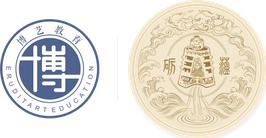
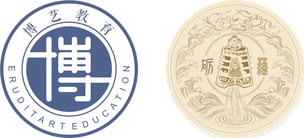
看板品牌标：两枚改成一样大（v44）
用户：「这两个 logo 要一样大，不能你大我小，它俩是一样的，
那就把博艺这个 logo 也放大，放成一样大。」

真凶不是尺寸参数，是**量错了边**：make_brand_plate.py 原先拿
「融合标左半画布的 bbox」当基准 —— 左半在博艺圆章右侧还留着一撮
alpha 60~120 的淡色残影（x 543..639，97px 宽），最长边被虚撑到
623px，而圆章实体只有 526px，于是圆章被缩成 76%、屏上 299px；
砺蕴那枚（米黄圆底）是 414px —— 差 38%。

改法：
- 新增 emblem()：用 alpha > 200 卡出圆章**实体**（526×526 正圆，
  带断言，素材一变形当场炸），再缩到与圆底同一直径。两枚都以
  h=414(@3x) 为直径 → 结构上等大，不靠调参凑。
- 拼装改为「两块都取裁紧后的实体」再拼，中间净空隙 = 设计值
  （S×0.20 = 83px@3x ≈ 28px@1x，与改版前观感一致）。
- .bd-lock 高度不动（本来就是两枚共同的直径），只宽了约 14%。

测试：
- board_check 新增守卫「两枚一样大」（按列切块比外接框，容差 3%），
  实测左 139×138 · 右 139×138；50 项全绿。
- 顺手换掉一条已经失效的旧判据：「左半透明占比 ≥35%」在圆章放大到
  铺满左半后会误报（圆的透明率本就是 21.5%），改成看**左半的两个角
  有没有东西**（裸摆必然四角全空），并保留 ≥15% 的弱门槛。
- side_brand 14 项通过。

diff --git a/sw.js b/sw.js
@@ -23,7 +23,7 @@
 
 /* v40：**电脑端侧栏门头（左上那枚白牌）从「整块左对齐」改成「居中版」** —— 用户看截图时指出：融合标只有 118px 靠在约 190px 宽的牌面里，右边空出一大片，视觉重心整个偏到左上角；牌下那行问候语又贴着左边，三块各说各话。现在牌内**融合标 / 系统名 / 端口名一律居中、收在一条中轴**上，牌下的问候语也走同一条轴；牌面加一道 **1px 暖金描边**（中式册页的做法，比投影轻），标与字之间压一条「**短金线嵌金点**」的分隔（登录门那根长金线的缩小版）—— 上半是「标」、下半是「字」，一块小匾就立住了。⚠ 别再改回 `.b-sys/.b-port{text-align:left}`，那是给「左对齐成一块」用的。② 顺手修掉一处**哑火**：`@media (min-width:1100px){.side .brand .brand-lock{max-width:148px}}` 原先写在 `.side .brand .brand-lock{max-width:118px}` **之前**，两个选择器特异性完全相同 → 148 从来没生效过，宽屏牌面上的融合标一直只有 118（这就是牌面看着空的另一半原因）。已把它挪到基础规则之后：宽屏 148 / 其余 118。③ 新增 test/side_brand_check.mjs（**14 项**）：量的是**文字**的水平中心而不是元素盒（`.b-sys` 上有 `::before` 伪元素那条金线，元素盒比文字宽，拿 getBoundingClientRect 会误判），五端 × 200/236 两档侧栏宽 × 深浅两套主题全部要求偏 ≤1.5px，实测 **0.00px**。 */
 /* v39：看板端从 v38 的「深墨底 · 双通道」重做成**宣纸米白 · 三栏**，打卡码改成「二维码里只编那串数字」，学生走砺蕴自带的「扫一扫」—— 用户看过多版设计后定的稿：取 D 的气质、B 的编辑式排版（不用卡片），二维码放大摆中间、左栏课表、二维码下面直接「应到 / 实到」、量化榜最多 5 格、底要米白不要正白。① 版面：**宣纸米白底**（#FAF7F0，不是正白 —— 这块屏 24 小时亮着，正白刺眼；**不跟系统深浅色**），顶带（品牌 / 日期 / 大时钟 / 数据新鲜度）+ 三栏**左课表 / 中打卡码 / 右量化与未到**，栏与栏之间只走一条 1px 细线、**不用卡片**（一圈圆角白卡会把整块屏切碎，中式布告的做法是留白 + 栏线）；中间那栏给得最宽，二维码 min(44vh,30vw,540px) 且**摆正中**，下面「应到 / 实到」两个大数、迟到·请假·未到 收成一行小字；顶栏品牌换成 assets/brand-lock-alpha.png（原来的 brand-lock.png 砺蕴章带米黄底 #FFFDE4，贴在米白纸上会露一块淡黄方块），两份都进 SHELL；量化榜只留分最高的 5 个班、红涨绿跌；窄到 900px 以下三栏叠成一栏能滚着看。② **二维码里只编那串数字本身，不编网址**（v38 编的是 ?code= 链接）—— 编网址是绕远路：手机相机 / 微信扫出来是一段链接，还得从微信导进浏览器，多好几步，也丢了「把码摆在门上一扫就走」的意义；学生用的是砺蕴自带的「扫一扫」，所以码就是数字。配套删掉 Board.base/scanLink、App.scanCatch/scanCode/handOffScan（grep 确认零残留）与 Board.fillH（横向跑马灯不再需要）。③ 新写一份**零外部依赖的二维码解码器 QRDec**（内联在 QR-DECODER-START/END 标记区，与 v38 的编码器共用同一份「哪些格是功能格 / 掩码怎么算 / 版本表长什么样」）—— iPhone 的 Safari 根本没有 BarcodeDetector，指不上，自己带一份两台手机行为才一致：灰度 → Bradley 自适应二值化（积分图）→ 去孤立噪点 → 1:1:3:1:1 定位图案识别（横扫 + 纵核）→ 聚类 → 挑等腰直角三角形定向（叉积定左右手）→ 三点仿射变换逐格采样（一格 ≥5px 时取中心 3×3 投票）→ 读格式信息（BCH 反解 + 汉明距离兜底）→ 反走填数据路径去掩码 → 解交错 → RS 纠错。RS 四处坑记在这：Berlekamp-Massey 里两项相加必须**右对齐**（最高次在前、短的往左补零）、定位多项式的**前导零要清掉**（否则次数被高估）、Chien search 代入的是 **α^(−i)** 而不是 α^i（这才是当初「错一个码字都纠不回」的病根）、最后还要**再验一遍伴随式**，残余不为 0 就返回空 —— 宁可让学生重扫一次，也不报一个错的码。④ 学生端「扫一扫」：StuSign.scan() 开后置摄像头（每 1/4 秒抓一帧缩到 480 宽来解，不逐帧跑，免得把手机烤热也费电；扫码这件事四分之一秒一轮已经够跟手）、onScan() 只留数字、**定位已就绪就直接提交**（扫完还要再按一下圈，那这趟就白扫了）、扫来的码填进输入框但**不聚焦**（一聚焦就弹键盘，盖住上面那个大圈）、打完卡把 _scanned 清掉别留着下一轮又替他填上；取景窗在扫完 / 重绘（renderStep 会把取景框整个冲掉）/ 切页（App.go 里 id !== stuSign 就叫一声）三处都收干净 —— 摄像头指示灯不许一直亮。⑤ 两处写着容易踩的细节：右栏是「量化榜 + 未到名单」两块，名单**不能再居中**（v37 的 .fit 居中在只有名单时是对的，现在会把两块之间裂开一大段空 —— 纸色底上留白不难看、裂缝难看），改成靠上排、留白沉底；定位图案的分隔带**必须浅色**（按切比雪夫距离画，dist!==2&&dist!==4），以及 SVG 必须自带 4 格静默区。测试 board_check 31→40 项（新增「造 7 个班只显示 5 格」的量化榜上限、宣纸米白 / 品牌标真渲染、左栏课表、五屏宽三栏不叠、截屏 → OpenCV 真解码、内置扫一扫全链路 7 项），另新增 test/qr_dec_check.mjs（27 项：RS 纠错专项 + 自编自解 + 缩放 + 只占画面一角 + 光线画质 + 倾斜 + 读不出返空）。 */
-const VERSION = 'v43'; /* v43：看板品牌标从「整条套深墨底板」改成**只给砺蕴那半套暖米黄圆底**。v42 的深墨底板被用户否掉：「整体都是白色的，突然有一个黑色的很丑」「博艺的 logo 是白色跟蓝色的，你整体弄个黑色的很突兀」；同时明确「只给砺蕴的 logo 加个底色」（手机端、电脑端用的是米黄底版 brand-lock.png，用户说那两处很清晰、不动）。现在 test/make_brand_plate.py 的产出改成：左＝博艺圆章**原样裸摆、不加任何底色**（它本身就是蓝+白，浅纸上读得清）；右＝砺蕴印章换官方**暗金**版（logo_logo1_暗金.png，原来那版是「给深色底做的品牌金细线」，贴纸底整块化掉）并压在一块**暖米黄 #F3E7CD 圆底**上，底内一道品牌金细描边 + 极轻暖影。暗金 #9A7B45 压在米黄上对比度约 3.3:1，浅底上读得出；底色走暖米黄是跟看板宣纸 #FAF7F0 同族，不发暗、不抢眼。造型用**圆底**不用圆角方底 —— 砺蕴那枚本就是圆印，圆底跟左边博艺圆章并排成「一对印」，不是两块形状各异的贴纸。中间不再画分隔线（圆底自己把两块分开了）。文件名不变（assets/brand-plate.png/@2x/@3x），HTML 只改注释。board_check 的两条守卫跟着改：① 品牌标「左半没有板、右半有板」——拿**透明画布**读角像素 alpha（左上 <20、右上 >200），这条正是用户「只给砺蕴加底色」的要求；② 右半「板是暖米黄不是深墨」——不透明像素中位色 R>G>B 且较亮，同时章线明显暗于板底（亮暗跨距够）。桌面归档改存 砺蕴横版组合标_砺蕴章米黄圆底.png（深墨那版作废，不再使用）。 */  /* v41：打卡码收敛成**只有一种**（6 位、60 秒一换的动态码），并修掉四件用户点名的事。① 固定码整条路线拆除 —— 后端不再读 sign_rules.code（前端 Sign.rules() 里显式 delete out.code，老设备别把自设的 8866 一直认下去），Sign.saveCode/randCode/localCode 一并删掉。理由：固定码一节课不变，只要一个学生把码发到群里，别人在宿舍也能打。② 位数钉死 6 位（后端 CODE_LEN=6，前端 maxlength=6，二维码与数字同源同一枚），原先 4/6/8 位混用是「教务自设固定码」与「派生码」两条路并存留下的。③ 两处都加换码倒计时：看板 .bd-timer（进度条 + 大秒数，末 10 秒转朱砂 .soon）、打卡管理页 #signCodeQr/#signCodeBox/#signCodeBar/#signCodeLeft（Sign.tick 每秒走一格），秒数按服务端 left 算、客户端改表没用。④ 学生端「扫码」与「手输」改**二选一**（原来扫完还要再输一遍）：onScan 只写 _scanned 不落 DOM，而 confirm() 只读输入框 → 读到空 → 弹「输一下讲台上那个码」，怎么输都说不清。现在 confirm() 优先认 _scanned，路口一次只摆一条路（默认只有「扫面前的二维码」，点「手输动态码」才出输入框），码位数不对就直说「对错了码」、不猜不截断。⑤ 演示数据在**数据层**一次滤掉（isDemoEntity + demoFilter + Store.list 默认过滤 + listRaw 留给备份/彻底清理/建演示号）—— 演示班与它底下的演示学员不得进名册、人数、出勤、量化任何统计；Util.clsName/stuName 走 listRaw（按 id 查名字是具名取用，不是统计）。⑥ 看板「迟到/请假/未到」三格由 12~19px 放大到 38.4px（clamp 上限 50px）并各归其色（琥珀/蓝/朱砂）；整块版面同步精修：纸面色气 + 金线分栏 + 打卡码 475px + 进度条 + 榜首金底 + 课表「下一节」金边 + 量化榜加 01~05 名次。⑦ 文案「扫描黑板上的二维码或者讲台上二维码」→「对着面前屏幕上的二维码扫一下」（黑板/讲台是旧场景，看板才是现在的码位）。⑧ 踩坑第四次：系统通用类 .warn{background:#fff6e9;border:...;padding:10px;font-size:13px} 会吃掉看板的 .bd-m.warn（多出一圈淡黄底），改名 .bd-m.bd-warn，board_check 里加了守卫断言「.bd-m 一律无底色/无内边距/类名带 bd- 前缀」。回归 board_check 31→46、student_check 46→51，新增 test/sign_code_check.mjs（打卡管理页专项 9 项）。 */  /* v38：看板打卡码改成「上二维码 / 下数字」双通道 —— 学生想扫就扫、想输就输。① 自带一份 QR 编码器内联进 index.html（放在 /* QR-ENCODER-START *\/ 标记区里，便于测试直接抠上线代码来验），零外部依赖，字节模式 + 纠错等级 M + 版本 1~6，GF(256) 上跑 RS 纠错、标准分块交错、8 种掩码按四条罚则评分选优；② 二维码编的是本站 ?code=XXXXXX 链接，扫完直达打卡页且码已替他填好；③ 只在「码真的变了」时才重画（paintCode 每秒被 tick 叫一次，而重编码要跑 8 张掩码的评分，常开的屏不能每秒白烧 CPU）；④ 学生端：scanCatch() 在登录门还开着时就收下码（并 replaceState 抹掉地址栏里的码，不留在历史、不易被转发），登录后 handOffScan() 直接落到打卡页，输入框填好码且**不聚焦**（一聚焦就弹键盘盖住上面那个大圈）；⑤ 顺手修掉 v37 的一处哑火：右栏名单「装得下就居中」其实从没生效过（.bd-rows 压根没有高度，align-content:center 是空转），现改为把 .fit 挂到 .bd-miss 面板上整组居中。两处写错就扫不出的坑记在这：定位图案的分隔带**必须浅色**（按切比雪夫距离画，dist!==2&&dist!==4），以及 SVG 必须自带 4 格静默区。测试 board_check 21→31 项（二维码 6 项含「截屏→OpenCV 真解码」、学生扫码全链路 5 项），另新增 test/qr_check.py（逐格比对参考实现 + 真解码 + 缩放鲁棒）与 test/qr_decode.py。 */  /* v37：看板端版面重做 —— 从「上时钟下卡片」的仪表盘换成「航显分带」（像机场的航班显示屏）：顶带（品牌 / 大时钟 / 日期 /「已到 30 37」/ 数据新鲜度），中带（左＝今日打卡码，整屏最大的一块，学生站门口就该看清；右＝6 格数字矩阵 应到/已到/迟到/请假/未到/距上课 ＋ 未到名单），底带（今日课表横向跑马灯）。旧版最大的毛病是下半屏常年空着半块。配套三处：① 码字号按「码栏 ≈ 视口 58%」重推（13.5vw，上限 265px），clock 挪进顶带后重叠判据从「左不压右」改成「上不压下」；② 右栏名单装得下时挂 .fit 居中摆着、塞不下才复制一份上滚（居中与滚动不能同时上，会两头露不出来）；③ 新增「一键新建看板专用教务号」（Board.createAccount，只有首位教务看得见那个按钮）—— 每个账号只有 2 台设备额度，拿自己的号登看板电脑会把自己手机或常用的那台挤下线。test/board_check.mjs 的 21 项判据同步更新。 */  /* v36：新增「看板端」—— 办公室那台电脑挂着的只读副屏（当前时间 / 今日打卡码 / 来了多少人 / 谁还没到 / 今天上什么课）。有 route 但不进 NAV_ORDER，入口只有设置页那张卡，或网址带 ?board=1（Windows 桌面快捷方式写死这条，开机就落在看板上）；App.go 里 board 不写 _lastPage，不带参数重开仍回工作台。取数全走现成的 Store 与 Auth.call('code')，不新增接口、不新增文件（SHELL 不变）。落地上踩到两处：① 宽屏那条 .page.on{display:grid;grid-template-columns:repeat(2,1fr)} 会把看板切掉一半（1600 宽的窗里只剩 800），须在 board-mode 下掰回单列并放开 ≥1700px 的 max-width:1400px；② 系统里已有通用 .ok{background:#eafaf0}，「已到」那块被吃掉一片浅绿底，故统计色类名一律改 bd- 前缀。新增 test/board_check.mjs（真机 21 项）。 */  /* v35：修「一进站开场动画跳两三次」。根因是换版重载：新 SW activate+claim 会派发 controllerchange，页面收到就 location.reload()；而旧版的守门变量 window._swReloading 挺不过 reload，SW 又有 controllerchange 与 shell-updated 两条通知路径，部署窗口里缓存指纹还可能对不上 —— 实测首次访问 2 次文档加载，第二次落在 t+6.7s/t+18s，人已经在用了才重放，所以「像故障」。现在：① 只有开屏层还盖着时才借换版重载，且每个会话最多一次（sessionStorage），过了开屏期就不刷、留到下次打开自然生效（缓存已是新版，仍不用手刷）；② 重载那一趟写 liyun_quiet_reload 标记，新文档直接撤掉开屏层 —— 用户看到的永远是一整段连续动画；③ 开屏保底显示 700ms→1200ms、淡出 .4s→.55s、金环描绘 1.5s→1.1s（画得完），整体变成一次从容的入场而不是几次闪烁；④ 本文件 install 与 navStrategy 里 index.html 改为「取一次、正文与指纹同一份字节」——原先取两次，CDN 传播窗口里会正文/指纹不匹配，误判成「壳子更新了」再刷一次（开场动画跳第三次的来源）。新增实测脚本 test/splash_probe.mjs。 */  /* v34：量化细则从「设置」里拆成独立页 —— 那张表近 30 条、每条都是可编辑的「名目 + 分值」输入框，整块塞在设置里把设置页撑到 ~5300px（手机要滑好久），密集输入框还容易误触改错分值。现在：设置页只留一张「量化细则」入口卡（照「老师管理」那张卡的样子，卡上一句「共 N 条计分项」+「打开量化细则」按钮）；加减分 / 加新条目 / 传图识别全搬到新页 page-rules，底部有「返回设置」。新页有 route 但**不进 NAV_ORDER** —— 侧栏 / 底部标签栏 / 全部功能抽屉三处都不出现，只有教务端从设置页那张卡能进，老师与学生拿不到（App.can 与服务端角色都拦）。实测设置页 5300→3028px，细则卡由最大一块缩到 173px。回归新增 test/rules_page_check.mjs（真机 6 项）与 redesign 第七节（5 项）。 */  /* v33：五端皮肤换「云淡」版 —— ① 侧栏/底栏(----rail)由端口**深色面**改为**浅色面**，上面压深端口色字（师珊瑚/教霁蓝/兼铜绿/学石绿/首赤金），彻底去掉压屏的深色块；② 整页底 --bg 由「几乎和旧中性底 #f6f5f2 一样」改为**看得出来的浅端口色**（这就是「顶栏是端口色、底色还是老颜色」的根因）；③ 新增 --rail-art（桌面侧栏白描的线条色）——素材是纯白线条，浅栏上原本会消失，改用 CSS mask 着色；④ 手机底栏胶囊阴影改走 --shadow-lg、侧栏门头白牌去掉重投影。CSS 五端块由 test/gen_port_theme.py 生成，体检脚本 test/diag_ports.mjs。 */  /* v32：① 电脑端侧栏（≥700px）由「三层传统暗纹」换成「花鸟白描小品」——把用户上传的竹石/松鹤/兰花三张水墨图抽成白线蒙版(assets/sideart/{zhushi,songhe,lanhua}_lite.png，更淡一档)，按端口沉底一枚(82% 栏宽)：教师=竹石、兼岗=竹石、教务=兰花、学生=兰花、首位教务=松鹤；一张图五端通用、颜色走端口 --rail。② 手机端 .tabbar / .topbar 彻底去纹样，纯色面（用户要求「简单大方」）。旧的「五端复合暗纹」整块删除，index.html 注入块改为「五端·桌面侧栏白描画」；本文件 SHELL 新增上述 3 个 png。 */  /* v31：① 浏览器标签页小图标(favicon)由「深墨底 PWA 图标」换成「带米黄底 + 金纹」的砺蕴圆章 —— 新增 favicon.ico(16/32/48) 与 favicon-192.png，`<link rel="icon">` 改指它们并带 ?v=31 强制刷新；桌面/PWA 图标(icon*.png/apple-touch-icon)按用户要求不动。② 五端暗纹整体调淡一档（用户反馈「花纹还是太明显、太明显了容易挡着字」）：rail 面 0.32/0.55/0.70 → 0.18/0.30/0.34，顶栏面 0.12/0.18/0.22 → 0.07/0.10/0.12。③ 手机底部标签栏放大：图标 19→23px、文字 10→12px、胶囊内边距 7→8px、内容区底部留白 108→120px。 */  /* v30：砺蕴网页 logo 由「透明细金线版」换成「带米黄底 + 金纹加粗版」；重建 assets/brand-lock{,@sm}.png 并重出 28 张启动图。 */  /* v29：五端配色落地甲方案终版（师珊瑚/教霁蓝/兼铜绿/学石绿/首赤金，师↔首互换、兼岗定铜绿）；新增五端复合暗纹（地纹+藤蔓+花头三层传统纹样 data-URI 背景注入侧栏/手机顶栏/底栏，内容区保持干净；浅深底各异）；学生打卡圈配色同步石绿。 */  /* v28：全站 emoji 小标识统一替换为内联 SVG 线性图标（52 枚，跨平台像素一致）；删除旧 logo 资产(boyi-/li/yun/logo-liyun)与废弃的 icon-light-* 桌面图标，SW 预缓存清单不变。v27：① 修手机顶栏 Logo「缩不小」——根因是 .topbar 里没有宽度规则，图片落到 .brand-lock 的 width:auto 上按自身像素(384×162)铺开，顶栏被撑到 183px 高；现在显式钉 88px，顶栏降到 56px。② 四端整页主题化：新增 --tint(次级面)/--rail(侧栏·底栏深色面)/--rail-text/--rail-on 四个变量，手机顶栏+底部标签栏、电脑侧栏+画布全部走端口色；侧栏门头改浅色牌（保住博艺徽章的蓝白）。③ theme-color 跟着端口走（状态栏也变色）。④ 手机 .main 不再重复吃 safe-area-inset-top（原先顶部平白多 59px）。⑤ 清掉失效的 --sidebar/--sidebar-text 与旧 logo 资产。⑥ super 端口朱砂红(#B23A2E)换竹青(#4E7A53)（用户从中国传统色中选定，浅/深两套 --accent 与 --rail 一并协调）。v26：登录门改 D 方案（去朱砂「砺」落款→底部黑字「博艺教育·砺蕴2026」；加黑色「欢迎回来」）；开屏改动画2（金线描绘圆环+融合标落底板淡入，纹路更清晰）；重出 28 张启动图并修 Chrome 最小窗宽钳制导致的偏心。v25：super 端口松绿换朱砂红(#B23A2E)并整体重着朱砂色；浅底桌面图标改深墨圆底板；删除未用 icon.svg。v24：首位教务(super)独立松绿皮肤；侧栏/手机顶栏融合标缩至88px；登录门牌匾缩小(220/260) */     // v23：全系统换融合 Logo（横版并排透明）；登录页加朱砂红「砺」印、门头改融合标；开屏换融合标；新增四端皮肤（教师金/教务黛蓝/兼岗黛紫/学生水青）。v22：手机桌面图标换新品牌标（深墨底金字，icon.png/icon-192/apple-touch-icon 三件套）。v21：进群开场白改「哈喽，乖，欢迎加入博艺大家庭，下面是你的学生系统的账号和密码，注意查收哦」。v20：学生账号入口对三位教务开放(原先只有首位教务看得见)并从倒数第二挪到「名册」下面 + 名单可按班级排序/一键复制；名册里两个「＋新建班级」按钮和下拉里的「＋新建班级…」一并去掉（建班归页面上头的班级卡片）
+const VERSION = 'v44'; /* v44：看板品牌标**两枚改成一样大**（用户：「这两个 logo 要一样大，不能你大我小，它俩是一样的，那就把博艺这个 logo 也放大，放成一样大」）。病根不在尺寸参数、在**量错了边**：test/make_brand_plate.py 原先拿「融合标左半画布的 bbox」当基准 —— 左半在博艺圆章右侧还留着一撮 alpha 60~120 的**淡色残影**（x 543..639，97px 宽），最长边被虚撑到 623px，而圆章实体只有 526px，于是圆章被缩成 76%、屏上 300px；砺蕴那枚（米黄圆底）是 414px，差 38%，用户一眼看出「你大我小」。现在新增 emblem()：用 alpha > 200 卡出圆章**实体**（526×526 正圆，代码里带断言，素材一变形就当场炸），再缩到与圆底**同一直径** —— 两枚都以 h=414（@3x 档）为直径，结构上就等大，不靠调参凑。拼装也改成「两块都取裁紧后的实体」再拼，所以中间的净空隙就是设计值（S×0.20 = 83px@3x ≈ 28px@1x，跟改版前的观感一致）。board_check 新增守卫「两枚一样大」：按列找中间那道空把标切成两块、比外接框宽高（容差 3%），实测左右各 414×414。原图 266×138 → 304×138；`.bd-lock` 的高度没动（高度本来就是两枚共同的直径），所以只宽了约 14%。 */  /* v43：看板品牌标从「整条套深墨底板」改成**只给砺蕴那半套暖米黄圆底**。v42 的深墨底板被用户否掉：「整体都是白色的，突然有一个黑色的很丑」「博艺的 logo 是白色跟蓝色的，你整体弄个黑色的很突兀」；同时明确「只给砺蕴的 logo 加个底色」（手机端、电脑端用的是米黄底版 brand-lock.png，用户说那两处很清晰、不动）。现在 test/make_brand_plate.py 的产出改成：左＝博艺圆章**原样裸摆、不加任何底色**（它本身就是蓝+白，浅纸上读得清）；右＝砺蕴印章换官方**暗金**版（logo_logo1_暗金.png，原来那版是「给深色底做的品牌金细线」，贴纸底整块化掉）并压在一块**暖米黄 #F3E7CD 圆底**上，底内一道品牌金细描边 + 极轻暖影。暗金 #9A7B45 压在米黄上对比度约 3.3:1，浅底上读得出；底色走暖米黄是跟看板宣纸 #FAF7F0 同族，不发暗、不抢眼。造型用**圆底**不用圆角方底 —— 砺蕴那枚本就是圆印，圆底跟左边博艺圆章并排成「一对印」，不是两块形状各异的贴纸。中间不再画分隔线（圆底自己把两块分开了）。文件名不变（assets/brand-plate.png/@2x/@3x），HTML 只改注释。board_check 的两条守卫跟着改：① 品牌标「左半没有板、右半有板」——拿**透明画布**读角像素 alpha（左上 <20、右上 >200），这条正是用户「只给砺蕴加底色」的要求；② 右半「板是暖米黄不是深墨」——不透明像素中位色 R>G>B 且较亮，同时章线明显暗于板底（亮暗跨距够）。桌面归档改存 砺蕴横版组合标_砺蕴章米黄圆底.png（深墨那版作废，不再使用）。 */  /* v41：打卡码收敛成**只有一种**（6 位、60 秒一换的动态码），并修掉四件用户点名的事。① 固定码整条路线拆除 —— 后端不再读 sign_rules.code（前端 Sign.rules() 里显式 delete out.code，老设备别把自设的 8866 一直认下去），Sign.saveCode/randCode/localCode 一并删掉。理由：固定码一节课不变，只要一个学生把码发到群里，别人在宿舍也能打。② 位数钉死 6 位（后端 CODE_LEN=6，前端 maxlength=6，二维码与数字同源同一枚），原先 4/6/8 位混用是「教务自设固定码」与「派生码」两条路并存留下的。③ 两处都加换码倒计时：看板 .bd-timer（进度条 + 大秒数，末 10 秒转朱砂 .soon）、打卡管理页 #signCodeQr/#signCodeBox/#signCodeBar/#signCodeLeft（Sign.tick 每秒走一格），秒数按服务端 left 算、客户端改表没用。④ 学生端「扫码」与「手输」改**二选一**（原来扫完还要再输一遍）：onScan 只写 _scanned 不落 DOM，而 confirm() 只读输入框 → 读到空 → 弹「输一下讲台上那个码」，怎么输都说不清。现在 confirm() 优先认 _scanned，路口一次只摆一条路（默认只有「扫面前的二维码」，点「手输动态码」才出输入框），码位数不对就直说「对错了码」、不猜不截断。⑤ 演示数据在**数据层**一次滤掉（isDemoEntity + demoFilter + Store.list 默认过滤 + listRaw 留给备份/彻底清理/建演示号）—— 演示班与它底下的演示学员不得进名册、人数、出勤、量化任何统计；Util.clsName/stuName 走 listRaw（按 id 查名字是具名取用，不是统计）。⑥ 看板「迟到/请假/未到」三格由 12~19px 放大到 38.4px（clamp 上限 50px）并各归其色（琥珀/蓝/朱砂）；整块版面同步精修：纸面色气 + 金线分栏 + 打卡码 475px + 进度条 + 榜首金底 + 课表「下一节」金边 + 量化榜加 01~05 名次。⑦ 文案「扫描黑板上的二维码或者讲台上二维码」→「对着面前屏幕上的二维码扫一下」（黑板/讲台是旧场景，看板才是现在的码位）。⑧ 踩坑第四次：系统通用类 .warn{background:#fff6e9;border:...;padding:10px;font-size:13px} 会吃掉看板的 .bd-m.warn（多出一圈淡黄底），改名 .bd-m.bd-warn，board_check 里加了守卫断言「.bd-m 一律无底色/无内边距/类名带 bd- 前缀」。回归 board_check 31→46、student_check 46→51，新增 test/sign_code_check.mjs（打卡管理页专项 9 项）。 */  /* v38：看板打卡码改成「上二维码 / 下数字」双通道 —— 学生想扫就扫、想输就输。① 自带一份 QR 编码器内联进 index.html（放在 /* QR-ENCODER-START *\/ 标记区里，便于测试直接抠上线代码来验），零外部依赖，字节模式 + 纠错等级 M + 版本 1~6，GF(256) 上跑 RS 纠错、标准分块交错、8 种掩码按四条罚则评分选优；② 二维码编的是本站 ?code=XXXXXX 链接，扫完直达打卡页且码已替他填好；③ 只在「码真的变了」时才重画（paintCode 每秒被 tick 叫一次，而重编码要跑 8 张掩码的评分，常开的屏不能每秒白烧 CPU）；④ 学生端：scanCatch() 在登录门还开着时就收下码（并 replaceState 抹掉地址栏里的码，不留在历史、不易被转发），登录后 handOffScan() 直接落到打卡页，输入框填好码且**不聚焦**（一聚焦就弹键盘盖住上面那个大圈）；⑤ 顺手修掉 v37 的一处哑火：右栏名单「装得下就居中」其实从没生效过（.bd-rows 压根没有高度，align-content:center 是空转），现改为把 .fit 挂到 .bd-miss 面板上整组居中。两处写错就扫不出的坑记在这：定位图案的分隔带**必须浅色**（按切比雪夫距离画，dist!==2&&dist!==4），以及 SVG 必须自带 4 格静默区。测试 board_check 21→31 项（二维码 6 项含「截屏→OpenCV 真解码」、学生扫码全链路 5 项），另新增 test/qr_check.py（逐格比对参考实现 + 真解码 + 缩放鲁棒）与 test/qr_decode.py。 */  /* v37：看板端版面重做 —— 从「上时钟下卡片」的仪表盘换成「航显分带」（像机场的航班显示屏）：顶带（品牌 / 大时钟 / 日期 /「已到 30 37」/ 数据新鲜度），中带（左＝今日打卡码，整屏最大的一块，学生站门口就该看清；右＝6 格数字矩阵 应到/已到/迟到/请假/未到/距上课 ＋ 未到名单），底带（今日课表横向跑马灯）。旧版最大的毛病是下半屏常年空着半块。配套三处：① 码字号按「码栏 ≈ 视口 58%」重推（13.5vw，上限 265px），clock 挪进顶带后重叠判据从「左不压右」改成「上不压下」；② 右栏名单装得下时挂 .fit 居中摆着、塞不下才复制一份上滚（居中与滚动不能同时上，会两头露不出来）；③ 新增「一键新建看板专用教务号」（Board.createAccount，只有首位教务看得见那个按钮）—— 每个账号只有 2 台设备额度，拿自己的号登看板电脑会把自己手机或常用的那台挤下线。test/board_check.mjs 的 21 项判据同步更新。 */  /* v36：新增「看板端」—— 办公室那台电脑挂着的只读副屏（当前时间 / 今日打卡码 / 来了多少人 / 谁还没到 / 今天上什么课）。有 route 但不进 NAV_ORDER，入口只有设置页那张卡，或网址带 ?board=1（Windows 桌面快捷方式写死这条，开机就落在看板上）；App.go 里 board 不写 _lastPage，不带参数重开仍回工作台。取数全走现成的 Store 与 Auth.call('code')，不新增接口、不新增文件（SHELL 不变）。落地上踩到两处：① 宽屏那条 .page.on{display:grid;grid-template-columns:repeat(2,1fr)} 会把看板切掉一半（1600 宽的窗里只剩 800），须在 board-mode 下掰回单列并放开 ≥1700px 的 max-width:1400px；② 系统里已有通用 .ok{background:#eafaf0}，「已到」那块被吃掉一片浅绿底，故统计色类名一律改 bd- 前缀。新增 test/board_check.mjs（真机 21 项）。 */  /* v35：修「一进站开场动画跳两三次」。根因是换版重载：新 SW activate+claim 会派发 controllerchange，页面收到就 location.reload()；而旧版的守门变量 window._swReloading 挺不过 reload，SW 又有 controllerchange 与 shell-updated 两条通知路径，部署窗口里缓存指纹还可能对不上 —— 实测首次访问 2 次文档加载，第二次落在 t+6.7s/t+18s，人已经在用了才重放，所以「像故障」。现在：① 只有开屏层还盖着时才借换版重载，且每个会话最多一次（sessionStorage），过了开屏期就不刷、留到下次打开自然生效（缓存已是新版，仍不用手刷）；② 重载那一趟写 liyun_quiet_reload 标记，新文档直接撤掉开屏层 —— 用户看到的永远是一整段连续动画；③ 开屏保底显示 700ms→1200ms、淡出 .4s→.55s、金环描绘 1.5s→1.1s（画得完），整体变成一次从容的入场而不是几次闪烁；④ 本文件 install 与 navStrategy 里 index.html 改为「取一次、正文与指纹同一份字节」——原先取两次，CDN 传播窗口里会正文/指纹不匹配，误判成「壳子更新了」再刷一次（开场动画跳第三次的来源）。新增实测脚本 test/splash_probe.mjs。 */  /* v34：量化细则从「设置」里拆成独立页 —— 那张表近 30 条、每条都是可编辑的「名目 + 分值」输入框，整块塞在设置里把设置页撑到 ~5300px（手机要滑好久），密集输入框还容易误触改错分值。现在：设置页只留一张「量化细则」入口卡（照「老师管理」那张卡的样子，卡上一句「共 N 条计分项」+「打开量化细则」按钮）；加减分 / 加新条目 / 传图识别全搬到新页 page-rules，底部有「返回设置」。新页有 route 但**不进 NAV_ORDER** —— 侧栏 / 底部标签栏 / 全部功能抽屉三处都不出现，只有教务端从设置页那张卡能进，老师与学生拿不到（App.can 与服务端角色都拦）。实测设置页 5300→3028px，细则卡由最大一块缩到 173px。回归新增 test/rules_page_check.mjs（真机 6 项）与 redesign 第七节（5 项）。 */  /* v33：五端皮肤换「云淡」版 —— ① 侧栏/底栏(----rail)由端口**深色面**改为**浅色面**，上面压深端口色字（师珊瑚/教霁蓝/兼铜绿/学石绿/首赤金），彻底去掉压屏的深色块；② 整页底 --bg 由「几乎和旧中性底 #f6f5f2 一样」改为**看得出来的浅端口色**（这就是「顶栏是端口色、底色还是老颜色」的根因）；③ 新增 --rail-art（桌面侧栏白描的线条色）——素材是纯白线条，浅栏上原本会消失，改用 CSS mask 着色；④ 手机底栏胶囊阴影改走 --shadow-lg、侧栏门头白牌去掉重投影。CSS 五端块由 test/gen_port_theme.py 生成，体检脚本 test/diag_ports.mjs。 */  /* v32：① 电脑端侧栏（≥700px）由「三层传统暗纹」换成「花鸟白描小品」——把用户上传的竹石/松鹤/兰花三张水墨图抽成白线蒙版(assets/sideart/{zhushi,songhe,lanhua}_lite.png，更淡一档)，按端口沉底一枚(82% 栏宽)：教师=竹石、兼岗=竹石、教务=兰花、学生=兰花、首位教务=松鹤；一张图五端通用、颜色走端口 --rail。② 手机端 .tabbar / .topbar 彻底去纹样，纯色面（用户要求「简单大方」）。旧的「五端复合暗纹」整块删除，index.html 注入块改为「五端·桌面侧栏白描画」；本文件 SHELL 新增上述 3 个 png。 */  /* v31：① 浏览器标签页小图标(favicon)由「深墨底 PWA 图标」换成「带米黄底 + 金纹」的砺蕴圆章 —— 新增 favicon.ico(16/32/48) 与 favicon-192.png，`<link rel="icon">` 改指它们并带 ?v=31 强制刷新；桌面/PWA 图标(icon*.png/apple-touch-icon)按用户要求不动。② 五端暗纹整体调淡一档（用户反馈「花纹还是太明显、太明显了容易挡着字」）：rail 面 0.32/0.55/0.70 → 0.18/0.30/0.34，顶栏面 0.12/0.18/0.22 → 0.07/0.10/0.12。③ 手机底部标签栏放大：图标 19→23px、文字 10→12px、胶囊内边距 7→8px、内容区底部留白 108→120px。 */  /* v30：砺蕴网页 logo 由「透明细金线版」换成「带米黄底 + 金纹加粗版」；重建 assets/brand-lock{,@sm}.png 并重出 28 张启动图。 */  /* v29：五端配色落地甲方案终版（师珊瑚/教霁蓝/兼铜绿/学石绿/首赤金，师↔首互换、兼岗定铜绿）；新增五端复合暗纹（地纹+藤蔓+花头三层传统纹样 data-URI 背景注入侧栏/手机顶栏/底栏，内容区保持干净；浅深底各异）；学生打卡圈配色同步石绿。 */  /* v28：全站 emoji 小标识统一替换为内联 SVG 线性图标（52 枚，跨平台像素一致）；删除旧 logo 资产(boyi-/li/yun/logo-liyun)与废弃的 icon-light-* 桌面图标，SW 预缓存清单不变。v27：① 修手机顶栏 Logo「缩不小」——根因是 .topbar 里没有宽度规则，图片落到 .brand-lock 的 width:auto 上按自身像素(384×162)铺开，顶栏被撑到 183px 高；现在显式钉 88px，顶栏降到 56px。② 四端整页主题化：新增 --tint(次级面)/--rail(侧栏·底栏深色面)/--rail-text/--rail-on 四个变量，手机顶栏+底部标签栏、电脑侧栏+画布全部走端口色；侧栏门头改浅色牌（保住博艺徽章的蓝白）。③ theme-color 跟着端口走（状态栏也变色）。④ 手机 .main 不再重复吃 safe-area-inset-top（原先顶部平白多 59px）。⑤ 清掉失效的 --sidebar/--sidebar-text 与旧 logo 资产。⑥ super 端口朱砂红(#B23A2E)换竹青(#4E7A53)（用户从中国传统色中选定，浅/深两套 --accent 与 --rail 一并协调）。v26：登录门改 D 方案（去朱砂「砺」落款→底部黑字「博艺教育·砺蕴2026」；加黑色「欢迎回来」）；开屏改动画2（金线描绘圆环+融合标落底板淡入，纹路更清晰）；重出 28 张启动图并修 Chrome 最小窗宽钳制导致的偏心。v25：super 端口松绿换朱砂红(#B23A2E)并整体重着朱砂色；浅底桌面图标改深墨圆底板；删除未用 icon.svg。v24：首位教务(super)独立松绿皮肤；侧栏/手机顶栏融合标缩至88px；登录门牌匾缩小(220/260) */     // v23：全系统换融合 Logo（横版并排透明）；登录页加朱砂红「砺」印、门头改融合标；开屏换融合标；新增四端皮肤（教师金/教务黛蓝/兼岗黛紫/学生水青）。v22：手机桌面图标换新品牌标（深墨底金字，icon.png/icon-192/apple-touch-icon 三件套）。v21：进群开场白改「哈喽，乖，欢迎加入博艺大家庭，下面是你的学生系统的账号和密码，注意查收哦」。v20：学生账号入口对三位教务开放(原先只有首位教务看得见)并从倒数第二挪到「名册」下面 + 名单可按班级排序/一键复制；名册里两个「＋新建班级」按钮和下拉里的「＋新建班级…」一并去掉（建班归页面上头的班级卡片）
 const CACHE = 'liyun-shell-' + VERSION;
 
 /* 开屏要用的东西全在这里 —— 预缓存后，第二次开就是本地读盘。 */
@@ -37,9 +37,10 @@ const SHELL = [
   './favicon-192.png',
   './assets/brand-lock.png',
   './assets/brand-lock@sm.png',
-  /* 看板顶带的品牌标：**带深墨底板**的组合标（v42 起）。
-     上一版用 brand-lock-alpha.png —— 那是「给深色底做的米黄细线描」，没有底色，
-     贴在米白纸上砺蕴章会整块化掉。三个文件都在 SHELL 里，常开的屏必须离线也显示得出来。 */
+  /* 看板顶带的品牌标：左＝博艺圆章裸摆、右＝砺蕴印 + 暖米黄圆底，**两枚等径**
+     （v43 定色 / v44 改等大）。别再用 brand-lock-alpha.png —— 那是「给深色底做的
+     米黄细线描」，没有底色，贴在米白纸上砺蕴章会整块化掉。
+     三个文件都在 SHELL 里，常开的屏必须离线也显示得出来。 */
   './assets/brand-plate.png',
   './assets/brand-plate@2x.png',
   './assets/brand-plate@3x.png',

diff --git a/index.html b/index.html
@@ -1272,8 +1272,10 @@ body.board-mode .page.on > *{animation:none}
         贴在这块米白纸上右侧的砺蕴章整块化掉 —— 「看不清」不是分辨率，是拿错了变体；
      ② v42 整条套一块**深墨**底板：清楚是清楚了，但整屏宣纸白里插一块黑，用户否了
         （「很丑」「博艺的 logo 是白色跟蓝色的」）。
-   尺寸：圆底比章高（单边 8.5%），所以高度要比裸标放大一档，内容才跟以前一样大
-      （5.4vh 这块按圆底高度算：0.845 × 5.4vh ≈ 4.56vh 的章）。 */
+   尺寸（v44）：**两枚等径** —— 左博艺圆章 = 右砺蕴圆底，高度就是两枚共同的直径。
+      v43 之前左枚只有右枚的 72%：脚本按「左半画布 bbox」量边，被圆章右侧那撮
+      alpha 60~120 的淡色残影虚撑到 623px，圆章被压成 76%，用户一眼看出「你大我小」
+      （「这两个 logo 要一样大，不能你大我小，它俩是一样的」）。 */
 .bd-lock{height:clamp(38px,5.4vh,72px);width:auto;flex:none;display:block}
 .bd-date{font-size:clamp(13px,1.15vw,22px);color:var(--dim);font-family:var(--serif);
   letter-spacing:.05em;flex:none}

diff --git a/test/make_brand_plate.py b/test/make_brand_plate.py
@@ -1,6 +1,6 @@
 #!/usr/bin/env python3
 # -*- coding: utf-8 -*-
-"""看板品牌标：博艺圆章**原样**，砺蕴印章压在「暖米黄圆底」上（v43 定稿）。
+"""看板品牌标：博艺圆章**原样裸摆**，砺蕴印章压在「暖米黄圆底」上；**两枚等径**。
 
 ## 为什么是这个做法
 
@@ -17,6 +17,18 @@
 并排成「一对印」，不是两块形状各异的贴纸。底内一道品牌金细描边 + 极轻暖影。
 
 博艺圆章（左）**不加任何底色**、原样裸摆——它本来就是蓝 + 白，浅底上读得清。
+
+## 两枚要一样大（2026-09-29 加）
+
+用户：「这两个 logo 要一样大，不能你大我小，它俩是一样的，那就把博艺这个 logo
+也放大，放成一样大。」
+
+🔴 病根不在尺寸参数，在**量错了边**：融合标左半画布在博艺圆章右侧还留着一撮
+alpha 60~120 的**淡色残影**（x 543..639，97px 宽）。老写法 `square()` 拿整块
+bbox 的最长边（623px）当基准去缩，圆章实体只有 526px —— 于是被压成 76%，
+屏上 300px，而砺蕴那枚（米黄圆底）是 414px，差 38%。
+现在 `emblem()` 用 alpha 卡出**实体**（526×526 正圆，断言校验）再缩，
+两枚都以 `h` 为直径 → 结构上就等大，不靠调参凑。
 
 ## 产出
 
@@ -48,36 +60,40 @@ CREAM_LINE = (190, 160, 100, 130)   # 圆底内一道品牌金细描边
 SHADOW = (150, 138, 116, 36)        # 极轻暖影（在纸面上立起来一点点）
 GOLD = (201, 171, 124, 255)         # 品牌金（对比图用）
 
-# ── 版式（都按「章高」的比例算，换尺寸不用重算）──
-PLATE_PAD = 0.085     # 圆底比章大多少（单边）
+# ── 版式（都按「圆径」的比例算，换尺寸不用重算）──
+PLATE_PAD = 0.085     # 砺蕴印章比圆底小多少（单边）
+GAP = 0.20            # 两枚圆之间的净空隙（≈ 原版 28px @1x 的观感）
 INSET = 0.035         # 描边距圆底边缘
 STROKE = 0.006        # 描边粗细
-GAP = 0.062           # 博艺圆章与砺蕴圆底之间
 SS = 4                # 圆底超采样倍数（圆弧/细描边按目标尺寸画会有锯齿）
+SHADOW_PAD = 9        # 圆底画布留的透明边（够阴影铺开，裁切时再去掉）
+EMBLEM_THR = 200      # 从融合标里抠博艺圆章的 alpha 门槛（残影在 60~120，卡得掉）
 
-MASTER_H = 414        # 主图高度（= 3x 档）；章 354 / 圆底 414
-
-
-def bbox(im):
-    a = np.array(im.convert("RGBA"))
-    ys, xs = np.where(a[:, :, 3] > 30)
-    return int(xs.min()), int(ys.min()), int(xs.max()) + 1, int(ys.max()) + 1
+MASTER_H = 414        # 主图高度 = **两枚共同的直径**（= @3x 档）
 
 
-def square(im, size):
-    """取内容、按最长边装进 size×size 方盒（居中）。"""
-    x0, y0, x1, y1 = bbox(im)
-    c = im.crop((x0, y0, x1, y1)).convert("RGBA")
-    s = size / max(c.size)
-    c = c.resize((max(1, round(c.size[0] * s)), max(1, round(c.size[1] * s))), Image.LANCZOS)
-    cv = Image.new("RGBA", (size, size), (0, 0, 0, 0))
-    cv.alpha_composite(c, ((size - c.size[0]) // 2, (size - c.size[1]) // 2))
-    return cv
+def emblem(size):
+    """博艺圆章：融合标**左半的实体**缩到直径 = size。
+
+    ⚠ 别按「左半画布 bbox」量边 —— 圆章右侧有一撮 alpha 60~120 的淡色残影
+       （x 543..639，97px），会把最长边从 526 虚撑到 623，圆章就被压成 76%。
+       用户报的「你大我小」就是这个。用 alpha > EMBLEM_THR 卡出实体。
+    """
+    a = np.array(Image.open(FUSION).convert("RGBA"))
+    half = a[:, :a.shape[1] // 2, :]
+    ys, xs = np.where(half[:, :, 3] > EMBLEM_THR)
+    x0, y0, x1, y1 = int(xs.min()), int(ys.min()), int(xs.max()) + 1, int(ys.max()) + 1
+    w, h = x1 - x0, y1 - y0
+    assert abs(w - h) <= max(4, w * 0.02), "博艺圆章该是正圆，抠出来却是 %d×%d" % (w, h)
+    return Image.fromarray(half[y0:y1, x0:x1]).resize((size, size), Image.LANCZOS)
 
 
 def plate_of(art, S, bg=CREAM, line=CREAM_LINE, pad=PLATE_PAD,
              inset=INSET, stroke=STROKE, shadow=SHADOW, ss=SS):
     """圆形底：直径 S，板外透明，章按 pad 内缩居中。
+
+    返回画布恒为 (S + 2*SHADOW_PAD)²，圆盘居中 —— 这样调用方裁
+    (SHADOW_PAD, SHADOW_PAD, +S, +S) 就能精确拿到圆盘本体。
 
     ⚠ 只把**圆底**放在 ss 倍超采样下画、再降采样回来（圆弧与细描边直接按
        目标尺寸画会有锯齿）；章始终以**原生像素**贴上去，不放大再缩回。
@@ -92,33 +108,52 @@ def plate_of(art, S, bg=CREAM, line=CREAM_LINE, pad=PLATE_PAD,
     out = big.resize((S, S), Image.LANCZOS)
     inner = round(S / (1 + pad * 2))
     o = (S - inner) // 2
-    out.alpha_composite(square(art, inner), (o, o))
+    src = art.convert("RGBA")
+    x0, y0, x1, y1 = _visible(src)
+    src = src.crop((x0, y0, x1, y1))
+    k = inner / max(src.size)
+    src = src.resize((max(1, round(src.size[0] * k)), max(1, round(src.size[1] * k))),
+                     Image.LANCZOS)
+    out.alpha_composite(src, (o + (inner - src.size[0]) // 2,
+                              o + (inner - src.size[1]) // 2))
+    p = SHADOW_PAD
     if shadow:
-        p = 9
         sh = Image.new("RGBA", (S + p * 2, S + p * 2), (0, 0, 0, 0))
         ImageDraw.Draw(sh).ellipse([p + 5, p + 7, S + p + 3, S + p + 5], fill=shadow)
         sh = sh.filter(ImageFilter.GaussianBlur(5))
         sh.alpha_composite(out, (p, p))
         return sh
-    return out
+    canvas = Image.new("RGBA", (S + p * 2, S + p * 2), (0, 0, 0, 0))
+    canvas.alpha_composite(out, (p, p))
+    return canvas
+
+
+def _visible(im, thr=30):
+    """可见主体（alpha > thr）的外接框；空图返回整幅。"""
+    a = np.array(im.convert("RGBA"))
+    ys, xs = np.where(a[:, :, 3] > thr)
+    if not len(xs):
+        return 0, 0, im.size[0], im.size[1]
+    return int(xs.min()), int(ys.min()), int(xs.max()) + 1, int(ys.max()) + 1
 
 
 def lockup(ly=LY_DARK, bg=CREAM, line=CREAM_LINE, pad=PLATE_PAD, h=MASTER_H, shadow=True):
-    """整条横版标：左 = 博艺圆章（裸摆、不加底）；右 = 砺蕴印 + 圆底。"""
-    inner = round(h / (1 + pad * 2))
-    fusion = Image.open(FUSION).convert("RGBA")
-    fw, fh = fusion.size
-    boyi = square(fusion.crop((0, 0, fw // 2, fh)), inner)      # 左半就是博艺圆章
-    right = plate_of(Image.open(ly).convert("RGBA"), h, bg=bg, line=line,
-                     pad=pad, shadow=(SHADOW if shadow else None))
-    gap = round(inner * GAP)
-    W = boyi.size[0] + gap + right.size[0]
-    H = max(boyi.size[1], right.size[1])
-    out = Image.new("RGBA", (W + 12, H + 12), (0, 0, 0, 0))
-    out.alpha_composite(boyi, (6, (H - boyi.size[1]) // 2 + 6))
-    out.alpha_composite(right, (6 + boyi.size[0] + gap, (H - right.size[1]) // 2 + 6))
-    x0, y0, x1, y1 = bbox(out)
-    return out.crop((x0, y0, x1, y1))
+    """整条横版标：左 = 博艺圆章（裸摆、不加底）；右 = 砺蕴印 + 米黄圆底。
+
+    **两枚等径**：都以 h 为直径。左枚没有底，一枚圆章铺满整个 h；右枚的 h 是那块
+    圆底的直径（印本体 h/(1+2*pad)，底托着印）。拼装时两块都取**裁紧后的实体**，
+    所以中间的净空隙 = gap，量出来就是设计值。
+    """
+    S = h                                                       # 两枚共同的直径
+    boyi = emblem(S)
+    padded = plate_of(Image.open(ly).convert("RGBA"), S, bg=bg, line=line,
+                      pad=pad, shadow=(SHADOW if shadow else None))
+    right = padded.crop((SHADOW_PAD, SHADOW_PAD, SHADOW_PAD + S, SHADOW_PAD + S))
+    gap = round(S * GAP)
+    out = Image.new("RGBA", (S + gap + S, S), (0, 0, 0, 0))
+    out.alpha_composite(boyi, (0, 0))
+    out.alpha_composite(right, (S + gap, 0))
+    return out
 
 
 def main():
@@ -142,11 +177,11 @@ def sheet():
     H = 58
     f = ImageFont.truetype("/System/Library/Fonts/Hiragino Sans GB.ttc", 18)
     opts = [
-        ("① 暖米黄圆底 + 暗金章   ← 定稿", lockup(LY_DARK, CREAM, CREAM_LINE)),
+        ("① 暖米黄圆底 + 暗金章   ← 定稿（两枚等径）", lockup(LY_DARK, CREAM, CREAM_LINE)),
         ("② 品牌金圆底 + 霜白章", lockup(LY_WHITE, GOLD, (255, 250, 235, 135))),
         ("③ 霁蓝圆底 + 霜白章", lockup(LY_WHITE, (74, 100, 137, 255), GOLD)),
         ("④ 朱砂圆底 + 霜白章", lockup(LY_WHITE, (178, 58, 46, 255), (255, 244, 236, 120))),
-        ("⑤ 米黄方底（对照：圆底更好看）", lockup(LY_DARK, CREAM, CREAM_LINE, shadow=False)),
+        ("⑤ 定稿但去掉极轻暖影（对照：会显得贴不住纸）", lockup(LY_DARK, CREAM, CREAM_LINE, shadow=False)),
     ]
     blocks = []
     for lab, im in opts:
